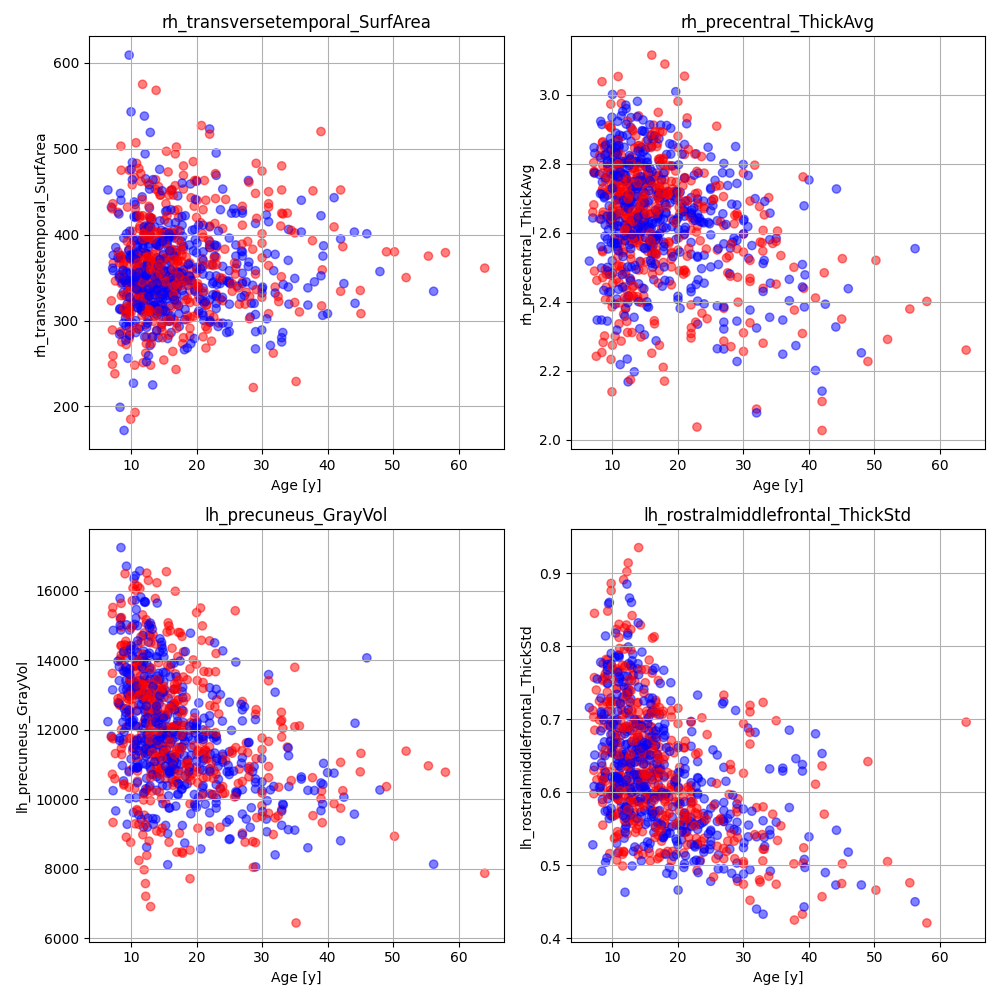
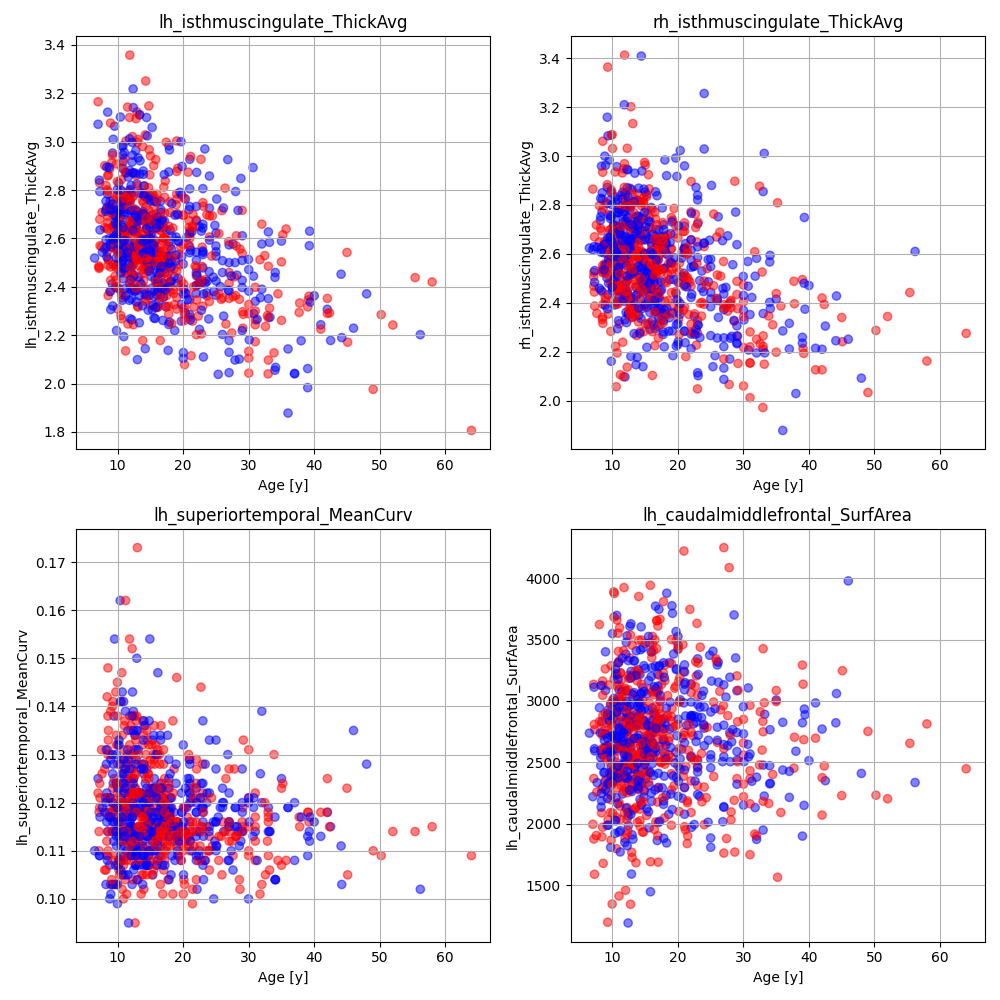
data renamed, repetitions avoided with utils.new_prediction

diff --git a/plots/random_features_scatter.py b/plots/random_features_scatter.py
@@ -2,9 +2,11 @@ import pandas as pd
 import numpy as np
 import matplotlib.pyplot as plt
 
-data = pd.read_csv(r'../data/FS_features_ABIDE_males.csv', delimiter=';')
+data = pd.read_csv(r'../data/abide.csv', delimiter=';')
+ages = data['AGE_AT_SCAN'].values
+# print('max and min age : 'np.min(ages), np.max(ages))
 # selects 4 random features excluding patient info like age itself or FIQ
-random_features = data.iloc[:, 5:].sample(n=4, axis=1)
+random_features = data.iloc[:, 5:].sample(n=4, axis=1, random_state=12)
 
 # sets up four subplots
 fig, axes = plt.subplots(2, 2, figsize=(10, 10))
@@ -12,7 +14,7 @@ fig, axes = plt.subplots(2, 2, figsize=(10, 10))
 # plots each random feature vs brain age, with distinction based on DX_GROUP = \pm 1
 for i, col in enumerate(random_features.columns):
     ax = axes[i // 2, i % 2]
-    ax.scatter(data['AGE_AT_SCAN'], data[col], c=data['DX_GROUP'].map({1: 'red', -1: 'blue'}), alpha=0.5)
+    ax.scatter(ages, data[col], c=data['DX_GROUP'].map({1: 'red', -1: 'blue'}), alpha=0.5)
     ax.set_xlabel('Age [y]')
     ax.set_ylabel(col)
     ax.set_title(col)

diff --git a/plots/oversampling_hist.py b/plots/oversampling_hist.py
@@ -4,9 +4,9 @@ import matplotlib.pyplot as plt
 sys.path.append(os.path.abspath(os.path.join(os.path.dirname(__file__), '..')))
 from brainage.utils import get_data
 
-_, targets = get_data(r'../data/FS_features_ABIDE_males_someGlobals.csv',
+_, targets = get_data(r'../data/abide_globals.csv',
                          'AGE_AT_SCAN', 5, overs = False)
-_, targets_os = get_data(r'../data/FS_features_ABIDE_males_someGlobals.csv',
+_, targets_os = get_data(r'../data/abide_globals.csv',
                          'AGE_AT_SCAN', 5, overs = True)
 
 plt.figure(figsize=(10, 6))

diff --git a/plots/age_hist.py b/plots/age_hist.py
@@ -4,7 +4,7 @@ import matplotlib.pyplot as plt
 import matplotlib.colors as mcolors
 
 # Extraction of data as pandas dataframe
-data = pd.read_csv(r'../data/FS_features_ABIDE_males.csv', delimiter=';')
+data = pd.read_csv(r'../data/abide.csv', delimiter=';')
 data['SITE'] = data['FILE_ID'].str.split('_').str[0]
 
 age_by_site = {}
